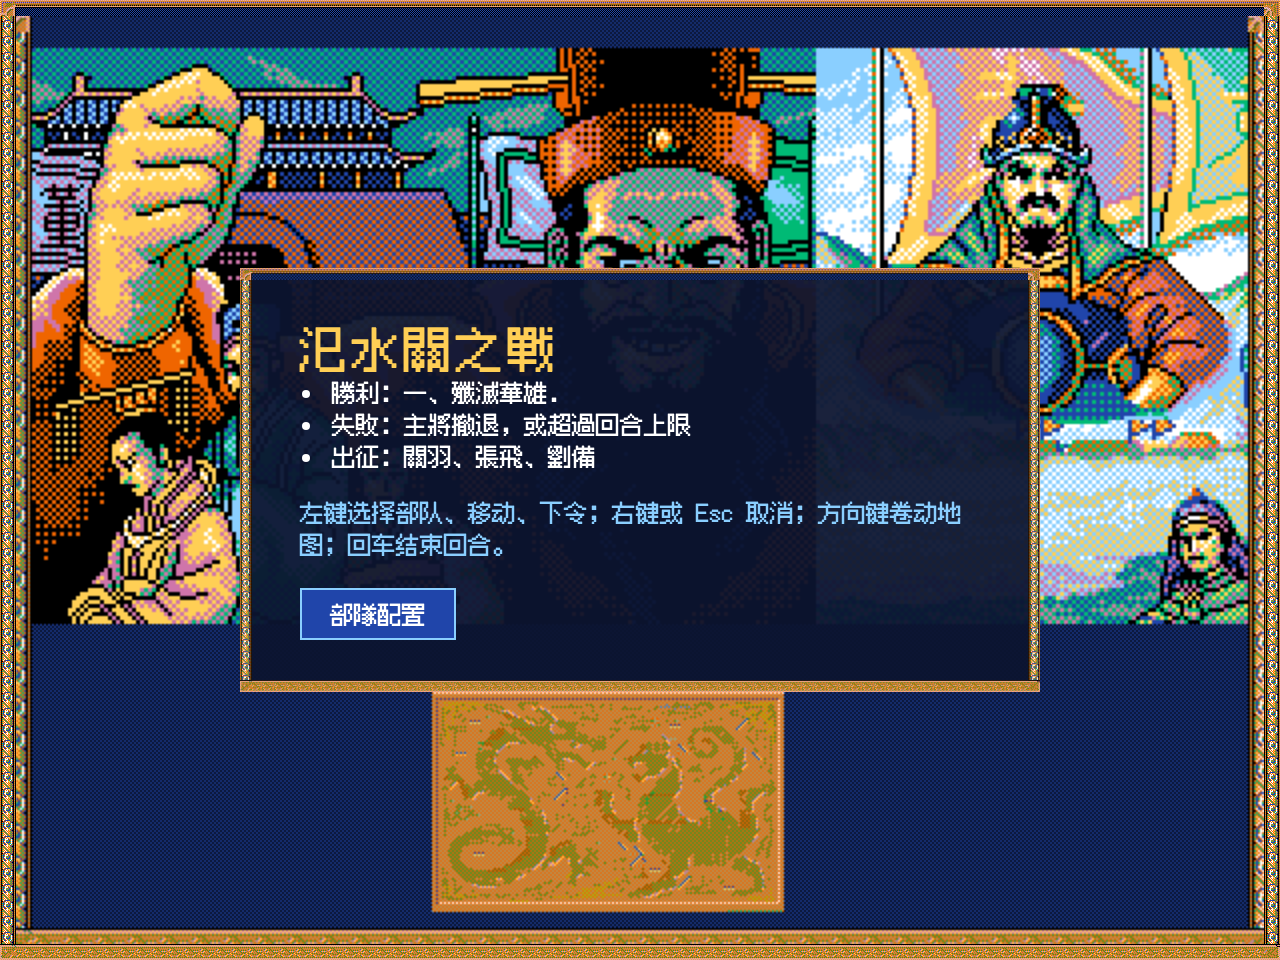
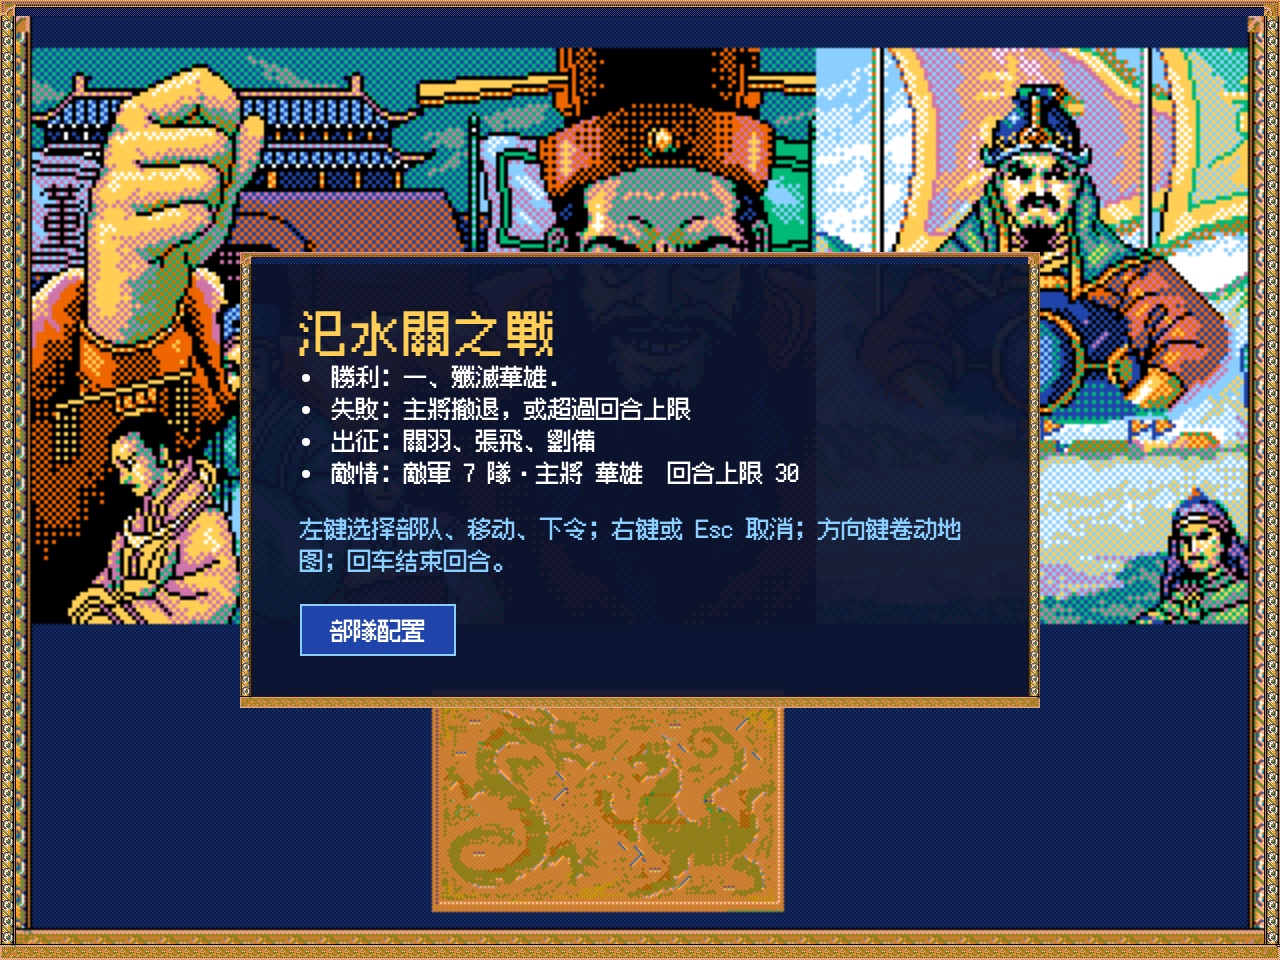
feat: 战前说明补上敌情（敌军队数、主将与回合上限）
原来只有勝利 / 失敗 / 出征三行，进战场前不知道对面有几队、主将是谁。
现在多一行「敵情：敵軍 7 隊・主將 華雄　回合上限 30」：队数只算开战就在场的敌军，
增援组不计；主将取 `commander` 那一支。截图 17-brief 重拍。

Changed region(s): [[0.1875, 0.25, 0.8125, 0.75]]

diff --git a/src/main.ts b/src/main.ts
@@ -988,9 +988,14 @@ function showBrief(levelId: string) {
   const deploy = story.deploy.length ? story.deploy : defaultDeploy(levelId, story.party);
   const who = deploy.map((id) => officers[id]?.name ?? id).join('、') || '—';
   const lose = '主將撤退，或超過回合上限';
+  // 敌情：开战就在场的敌军有几队、主将是谁（增援组不算在里面）
+  const foes = lv.units.filter((u) => u.slot >= 15 && !u.off);
+  const boss = foes.find((u) => u.commander);
+  const intel = `敵軍 ${foes.length} 隊${boss ? `・主將 ${boss.name}` : ''}　回合上限 ${lv.turnLimit}`;
   screen(
     `<h1 style="font-size:24px;line-height:28px">${esc(lv.name)}</h1>` +
-    `<ul><li>勝利：${esc(lv.goal || '擊破敵軍主將')}</li><li>失敗：${esc(lose)}</li><li>出征：${esc(who)}</li></ul>` +
+    `<ul><li>勝利：${esc(lv.goal || '擊破敵軍主將')}</li><li>失敗：${esc(lose)}</li><li>出征：${esc(who)}</li>` +
+    `<li>敵情：${esc(intel)}</li></ul>` +
     '<p class="sub" style="margin:0">左键选择部队、移动、下令；右键或 Esc 取消；方向键卷动地图；回车结束回合。</p>' +
     '<div class="row"><button class="btn" data-go="deploy">部隊配置</button></div>');
 }
